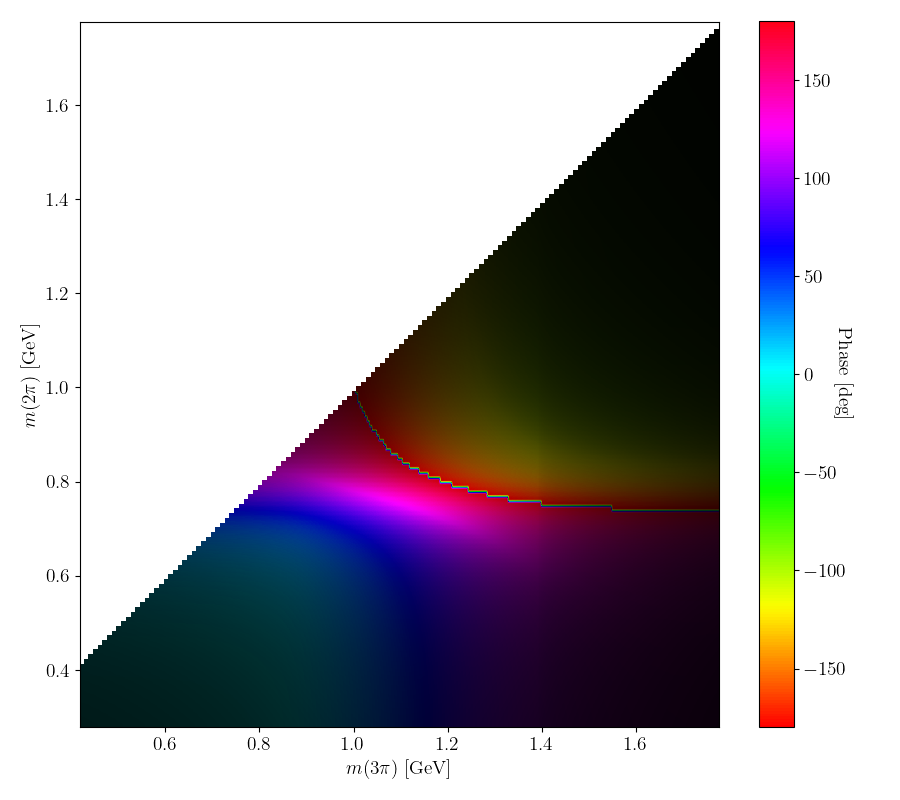
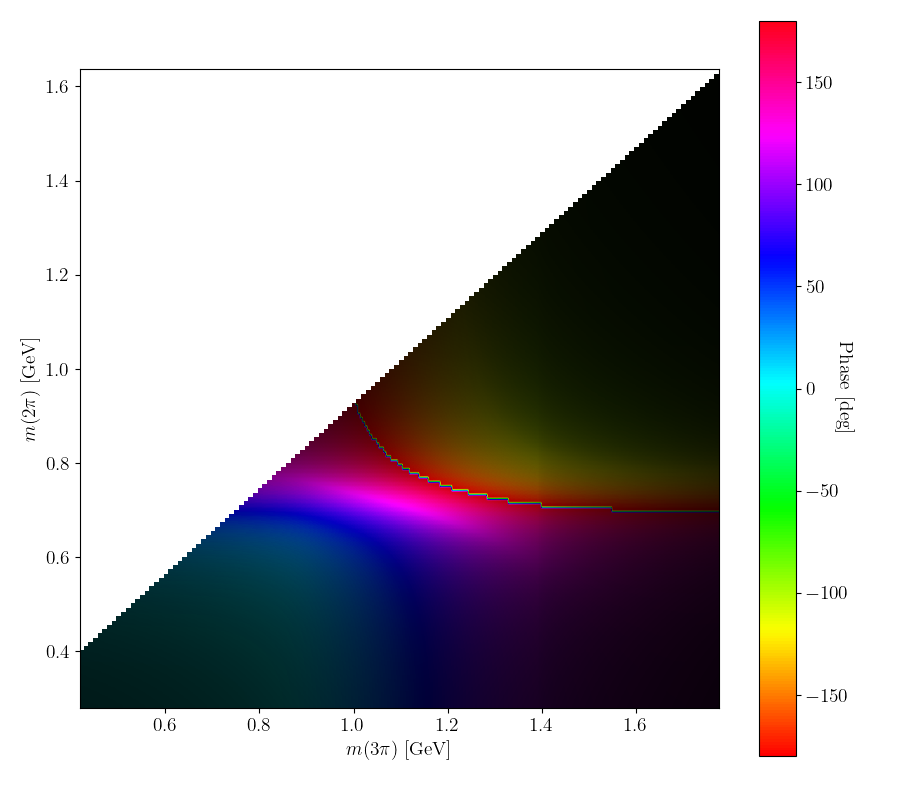
Fix Y axis

diff --git a/complex_valued_plot.py b/complex_valued_plot.py
@@ -25,9 +25,9 @@ def complex_valued_plot(cmplxarray):
     # Actual plot
 
     fig, ax = plt.subplots(figsize=(9,8))
-    pc1 = ax.imshow(phis, cmap='hsv', extent=[3*mpi,mtau, 2*mpi, mtau])
+    pc1 = ax.imshow(phis, cmap='hsv', extent=[3*mpi,mtau, 2*mpi, mtau-mpi])
     # Plotting the modulus array as the 'value' part
-    ax.imshow(black, extent=[3*mpi,mtau, 2*mpi, mtau])
+    ax.imshow(black, extent=[3*mpi,mtau, 2*mpi, mtau-mpi])
     ax.set (xlabel='$m(3\pi)$ [GeV]', ylabel='$m(2\pi)$ [GeV]')
     cbar1 = fig.colorbar (pc1, ax=ax)
     cbar1.ax.set_ylabel ('Phase [deg]', rotation=270)
